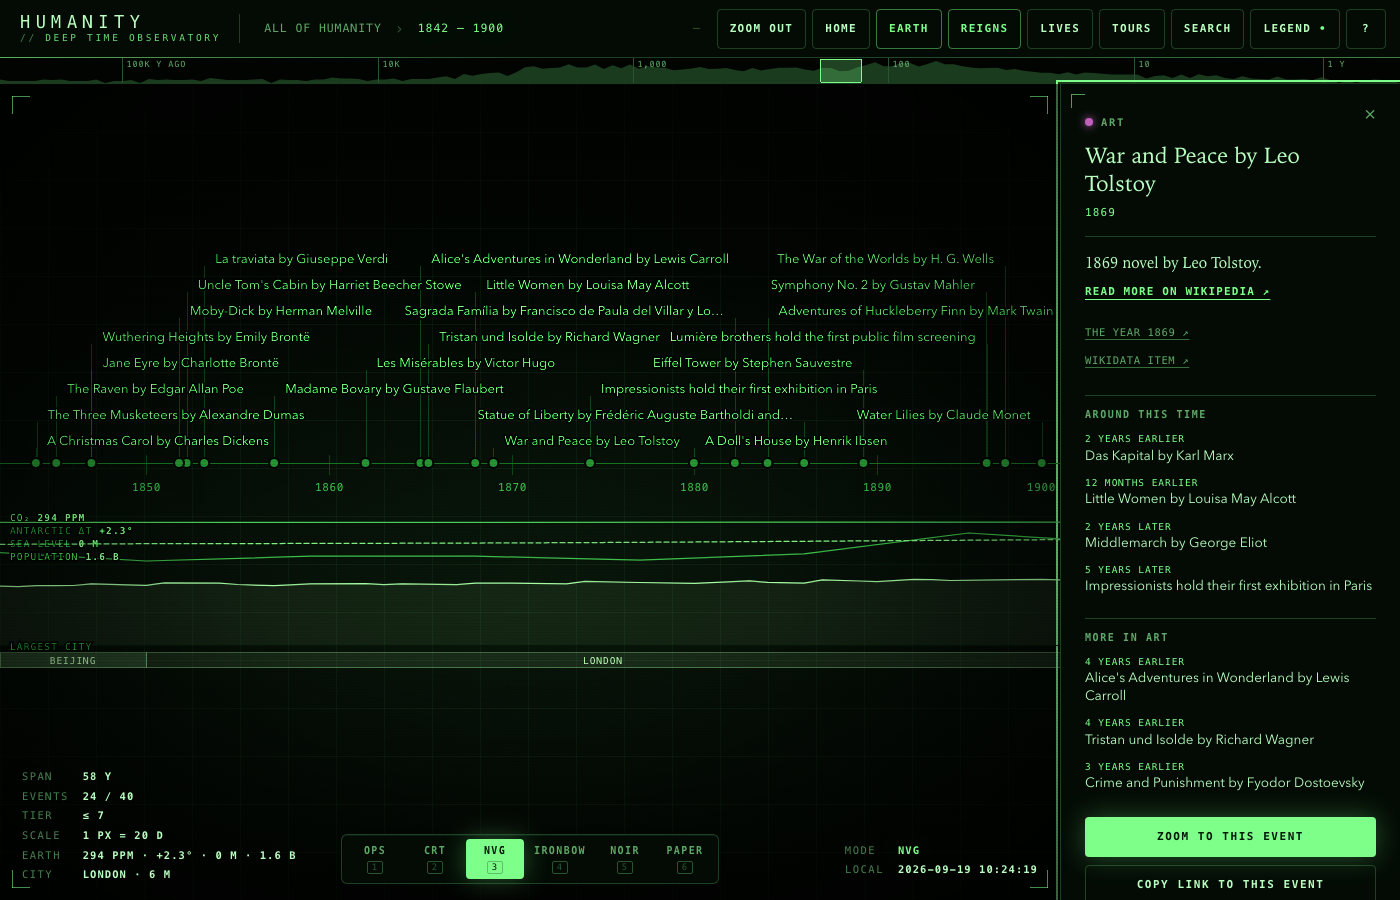
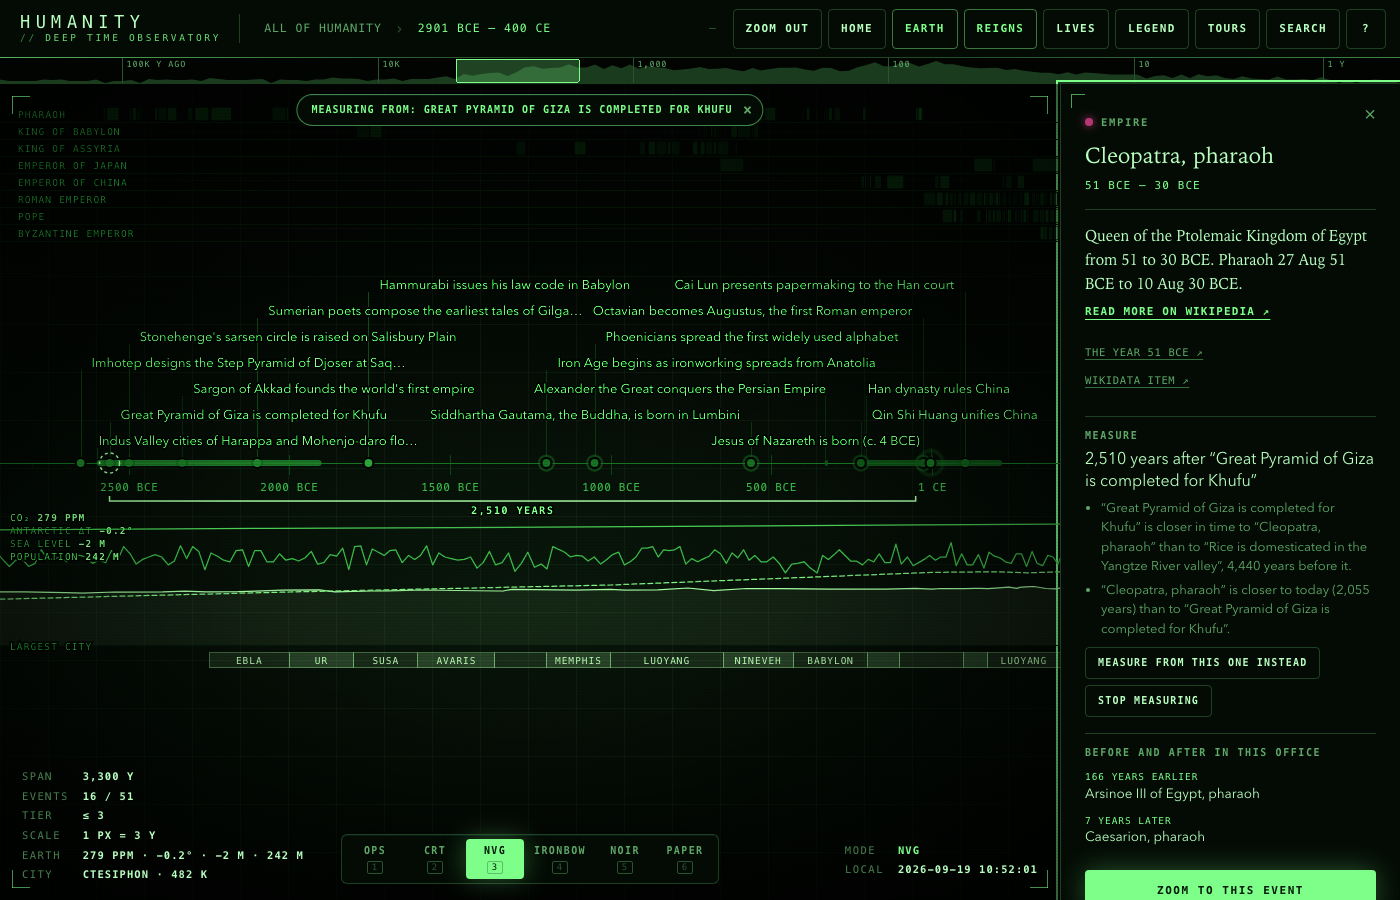
docs: README screenshot shows the measuring tool

diff --git a/README.md b/README.md
@@ -2,7 +2,7 @@
 
 **Live:** https://dshills.github.io/Humanity/
 
-![The Works layer on the years 1842 to 1900 in NVG mode with only the art category shown: two dozen landmark works stacked above the axis, from A Christmas Carol, Jane Eyre, Moby-Dick and La traviata through Madame Bovary, Les Misérables, Alice's Adventures in Wonderland, Tristan und Isolde and War and Peace to the Statue of Liberty, the Eiffel Tower, Water Lilies and The War of the Worlds, with the first Impressionist exhibition and the Lumière screening among them; the panel is open on War and Peace by Leo Tolstoy, 1869, with its links, an Around this time list and More in art](docs/screenshot.png)
+![The measuring tool in NVG mode on the years 2901 BCE to 400 CE: a chip reads Measuring from: Great Pyramid of Giza is completed for Khufu, a dashed ring marks the pyramid on the axis, and a bracket under the axis labelled 2,510 years runs from it to Cleopatra; the panel is open on Cleopatra, pharaoh, 51 to 30 BCE, and its Measure section says 2,510 years after the Great Pyramid, that the pyramid is closer in time to Cleopatra than to the domestication of rice, and that Cleopatra is closer to today, 2,055 years, than to the Great Pyramid](docs/screenshot.png)
 
 <p>
   <img src="docs/mode-ops.png" width="32%" alt="Ops mode: near-black console with cyan accent">
